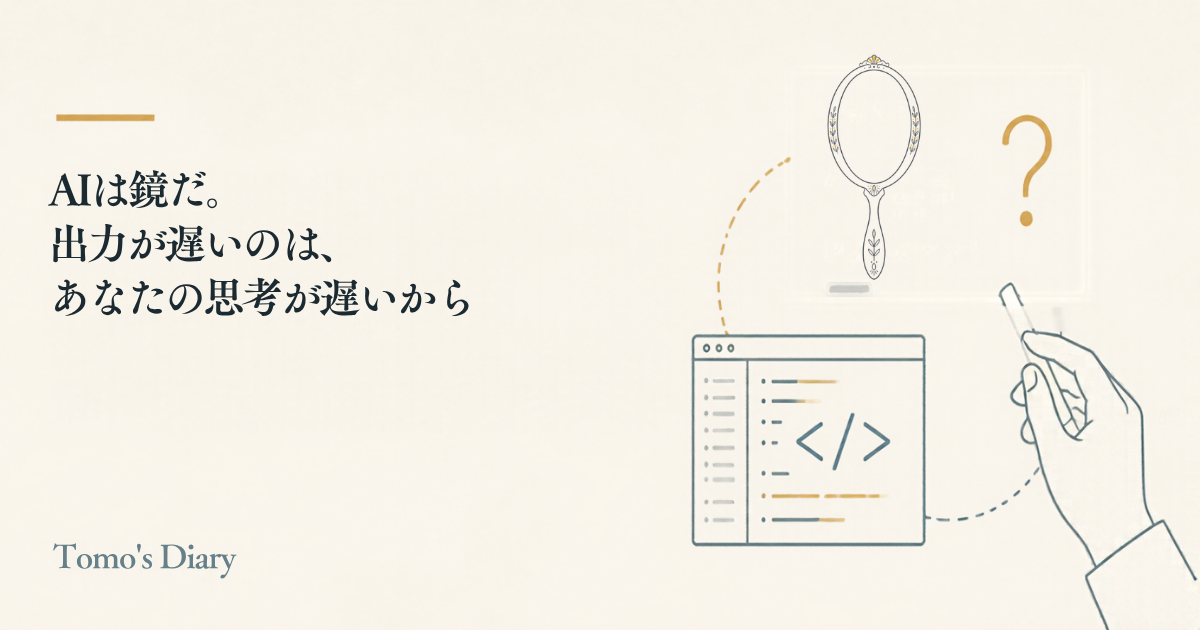
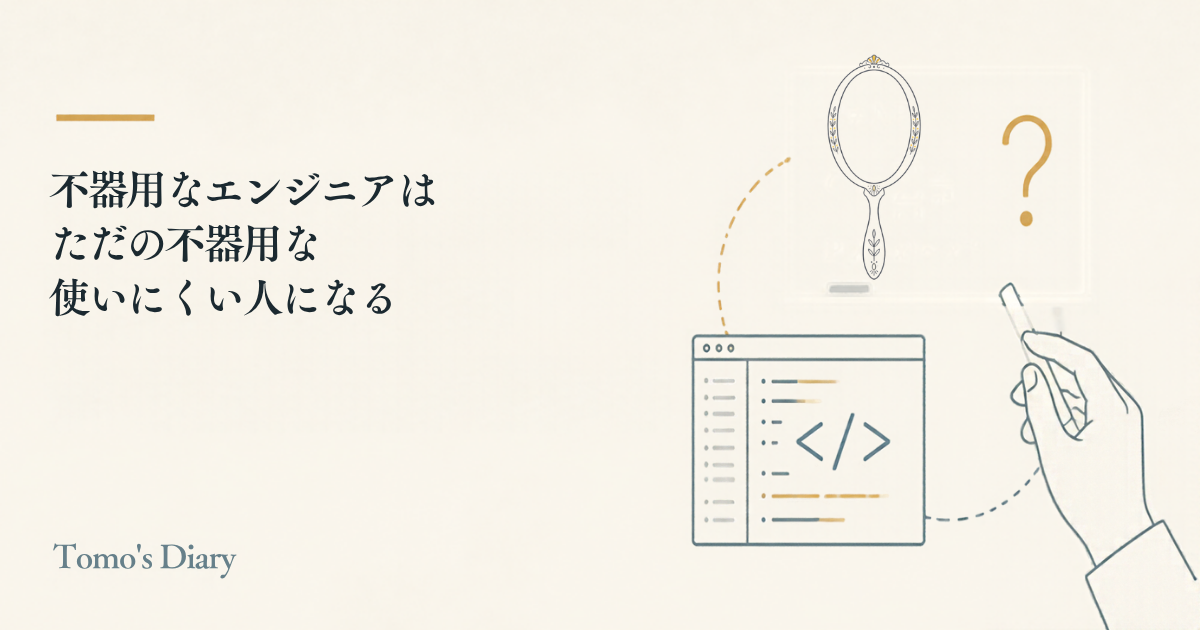
Retitle AI mirror post: clumsy engineers (title, description, hero)

Changed region(s): [[0.0308, 0.3619, 0.4008, 0.5127], [0.0308, 0.2714, 0.37, 0.3317]]

diff --git a/src/posts/ai-is-a-mirror.md b/src/posts/ai-is-a-mirror.md
@@ -1,14 +1,14 @@
 ---
-title: "AIは鏡だ。出力が遅いのは、あなたの思考が遅いから"
+title: "不器用なエンジニアはただの不器用な使いにくい人になる"
 date: 2026-10-25T13:00:00+08:00
-description: "設計から運用保守まで、ほとんどの工程にAIが入ってきたのに、工数を計算するロジックは昔のままです。うまくいかないとAIのせいにするエンジニアに向けて、AIは自分を映す鏡でしかないという話を書きました。"
+description: "AIは使う人を映す鏡で、自分の能力を掛け算するものでしかありません。技術力に甘えてきた不器用なエンジニアは、指示と検証ができる人に代わられてしまいます。AIを信頼できる部下のように使えるかどうかの話です。"
 tags:
   - tech
   - ai
   - engineering
   - management
 image: /images/posts/ai-is-a-mirror/hero.png
-imageAlt: "クリーム色の背景に「AIは鏡だ。出力が遅いのは、あなたの思考が遅いから」というタイトルと、手鏡、コードエディタ、チョークを持つ手の線画"
+imageAlt: "クリーム色の背景に「不器用なエンジニアはただの不器用な使いにくい人になる」というタイトルと、手鏡、コードエディタ、チョークを持つ手の線画"
 ---
 
 AIで出力は速くなったのに、空いた時間を成果に変えられていない組織が多いと私は思っています。うまくいかないとAIのせいにしがちですが、AIは使う人を映す鏡でしかありません。
